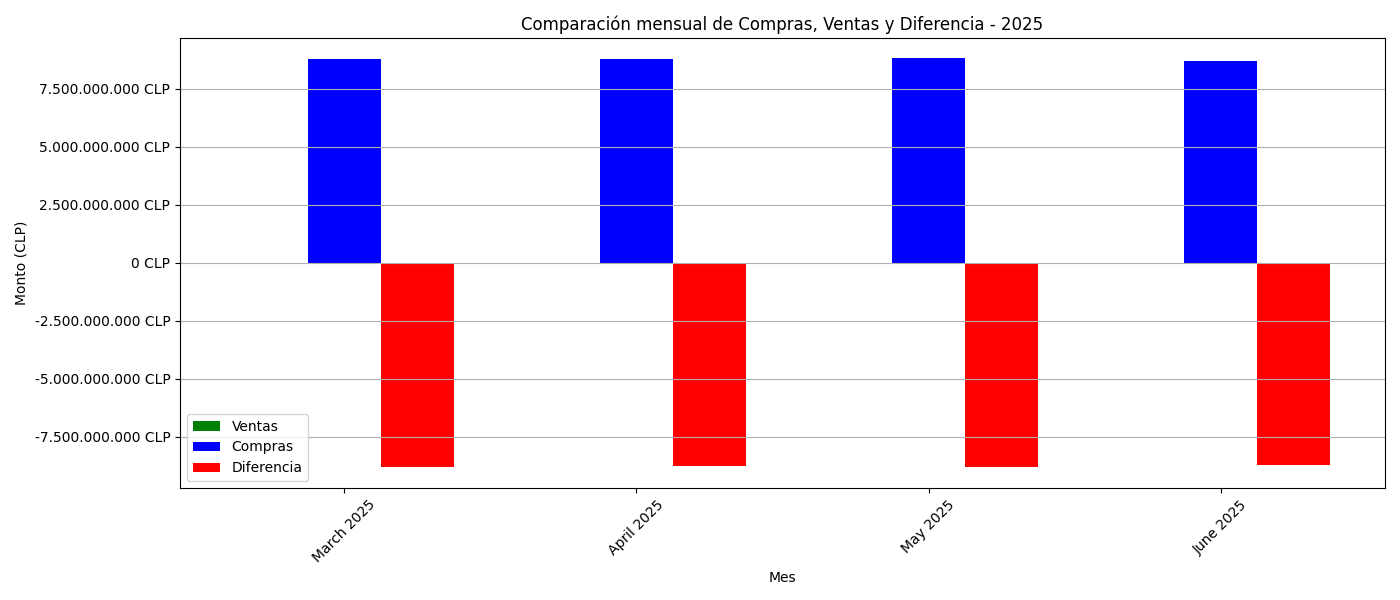
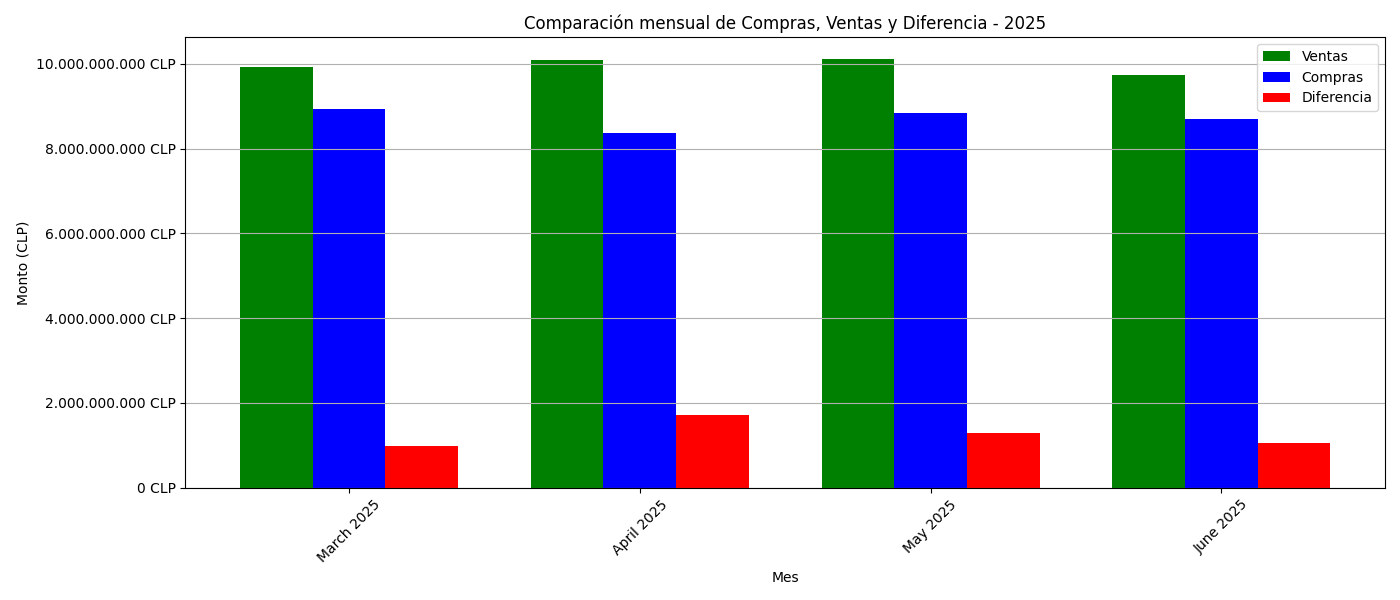
estasiquesi

diff --git a/consultas.py b/consultas.py
@@ -13,7 +13,7 @@ import matplotlib.ticker as mtick
 def conectar():
     return psycopg2.connect(
         host="localhost",
-        password="5540",
+        password="minecraft",
         port="5432",
         database="postgres",
         user="postgres"
@@ -224,19 +224,37 @@ def modelo_mas_vendido_por_region(conn, anio):
         print("\nNo se encontraron resultados para ese año en modelo más vendido por región.")
         return []
 
-    # Ajustar nombres largos con saltos de línea
-    def wrap_label(label, width=15):
-        return "\n".join(textwrap.wrap(label, width))
+    # Ajustar nombres largos con saltos de línea y abreviaturas
+    def abreviar_region(nombre):
+        abreviaturas = {
+            'Región de Arica y Parinacota': 'Arica y Parinacota',
+            'Región de Tarapacá': 'Tarapacá',
+            'Región de Antofagasta': 'Antofagasta',
+            'Región de Atacama': 'Atacama',
+            'Región de Coquimbo': 'Coquimbo',
+            'Región de Valparaíso': 'Valparaíso',
+            'Región Metropolitana de Santiago': 'RM',
+            'Región del Libertador General Bernardo O’Higgins': 'O’Higgins',
+            'Región del Maule': 'Maule',
+            'Región de Ñuble': 'Ñuble',
+            'Región del Biobío': 'Biobío',
+            'Región de La Araucanía': 'Araucanía',
+            'Región de Los Ríos': 'Los Ríos',
+            'Región de Los Lagos': 'Los Lagos',
+            'Región de Aysén del Gral. Carlos Ibáñez del Campo': 'Aysén',
+            'Región de Magallanes y de la Antártica Chilena': 'Magallanes'
+        }
+        return abreviaturas.get(nombre, nombre)
 
-    regiones = [wrap_label(fila[0]) for fila in resultados]
+    regiones = [abreviar_region(fila[0]) for fila in resultados]
     modelos = [fila[1] for fila in resultados]
     cantidades = [fila[2] for fila in resultados]
     etiquetas = [f"{modelo} ({cant} ventas)" for modelo, cant in zip(modelos, cantidades)]
 
     # Gráfico
-    plt.figure(figsize=(12, 6))
+    plt.figure(figsize=(max(12, len(regiones)*0.9), 6))
     barras = plt.bar(regiones, cantidades, color='mediumseagreen')
-    plt.xticks(rotation=0, fontsize=9)
+    plt.xticks(rotation=30, fontsize=9, ha='right')
     plt.ylabel('Unidades vendidas')
     plt.title(f'Modelo más vendido por Región - {anio}')
 
@@ -249,8 +267,7 @@ def modelo_mas_vendido_por_region(conn, anio):
                  altura + 0.1,
                  etiqueta,
                  ha='center', va='bottom',
-                 fontsize=8, rotation=0,
-                 wrap=True)
+                 fontsize=8, rotation=0)
 
     plt.tight_layout()
     # Crear carpeta si no existe
@@ -294,22 +311,40 @@ def comparacion_compras_vs_ventas_por_region(conn, anio):
         resultados = cursor.fetchall()
 
     if resultados:
-        # Función para envolver texto largo
-        def wrap_label(label, width=15):
-            return "\n".join(textwrap.wrap(label, width))
+        # Abreviar nombres de regiones
+        def abreviar_region(nombre):
+            abreviaturas = {
+                'Región de Arica y Parinacota': 'Arica y Parinacota',
+                'Región de Tarapacá': 'Tarapacá',
+                'Región de Antofagasta': 'Antofagasta',
+                'Región de Atacama': 'Atacama',
+                'Región de Coquimbo': 'Coquimbo',
+                'Región de Valparaíso': 'Valparaíso',
+                'Región Metropolitana de Santiago': 'RM',
+                'Región del Libertador General Bernardo O’Higgins': 'O’Higgins',
+                'Región del Maule': 'Maule',
+                'Región de Ñuble': 'Ñuble',
+                'Región del Biobío': 'Biobío',
+                'Región de La Araucanía': 'Araucanía',
+                'Región de Los Ríos': 'Los Ríos',
+                'Región de Los Lagos': 'Los Lagos',
+                'Región de Aysén del Gral. Carlos Ibáñez del Campo': 'Aysén',
+                'Región de Magallanes y de la Antártica Chilena': 'Magallanes'
+            }
+            return abreviaturas.get(nombre, nombre)
 
-        regiones = [wrap_label(r[0]) for r in resultados]
+        regiones = [abreviar_region(r[0]) for r in resultados]
         vendidos = [r[1] for r in resultados]
         comprados = [r[2] for r in resultados]
 
         x = range(len(regiones))
         width = 0.35
 
-        plt.figure(figsize=(12, 6))
+        plt.figure(figsize=(max(12, len(regiones)*0.9), 6))
         plt.bar([i - width/2 for i in x], vendidos, width=width, label='Vendidos', color='steelblue')
         plt.bar([i + width/2 for i in x], comprados, width=width, label='Comprados', color='darkorange')
 
-        plt.xticks(x, regiones, rotation=0, fontsize=9)
+        plt.xticks(x, regiones, rotation=30, fontsize=9, ha='right')
         plt.title(f'Comparación de autos comprados vs vendidos por región - {anio}')
         plt.xlabel('Región')
         plt.ylabel('Cantidad')
@@ -345,7 +380,7 @@ def promedio_precio_venta_por_marca(conn, anio):
         cursor.execute(query, (anio,))
         resultados = cursor.fetchall()
 
-    # Mostrar resultados en consola con formato
+    # Mostrar resultados en consola with format
     for marca, promedio in resultados:
         print(f"{marca}: ${promedio:,.0f} CLP")
 

diff --git a/BD_por_consola/extract.py b/BD_por_consola/extract.py
@@ -189,9 +189,9 @@ def extract_hechos_ventas():
     cur.execute("""
         SELECT 
             v.id_venta, 
-            comp.concesionaria AS id_concesionaria,
-            comp.id_usuario,
-            comp.id_auto,
+            v.id_concesionaria,
+            v.id_usuario,
+            v.id_auto,
             v.monto,
             v.fecha_venta,
             a.modelo AS id_modelo,
@@ -199,9 +199,8 @@ def extract_hechos_ventas():
             r.id_region,
             ci.id_comuna
         FROM transaccional.ventas v
-        LEFT JOIN transaccional.compras comp ON v.id_venta = comp.id_compras
-        LEFT JOIN transaccional.autos a ON comp.id_auto = a.patente
-        LEFT JOIN transaccional.concesionarias c ON comp.concesionaria = c.id_concesionarias
+        LEFT JOIN transaccional.autos a ON v.id_auto = a.patente
+        LEFT JOIN transaccional.concesionarias c ON v.id_concesionaria = c.id_concesionarias
         LEFT JOIN transaccional.ciudad cd ON c.id_ciudad_concesionaria = cd.id_ciudad
         LEFT JOIN transaccional.comuna ci ON cd.id_comuna_perteneciente = ci.id_comuna
         LEFT JOIN transaccional.region r ON ci.id_region_perteneciente = r.id_region

diff --git a/BD_por_consola/load.py b/BD_por_consola/load.py
@@ -111,11 +111,20 @@ def load_hechos_ventas(data):
     for row in data:
         query = """
             INSERT INTO analisis.hechos_ventas
-            (id_venta, id_concesionaria, id_comuna)
-            VALUES (%s, %s, %s)
+            (id_venta, id_concesionaria, id_usuario, id_auto, monto, fecha_venta, id_modelo, id_ciudad, id_region, id_comuna)
+            VALUES (%s, %s, %s, %s, %s, %s, %s, %s, %s, %s)
             ON CONFLICT (id_venta) DO NOTHING
         """
         params = (
-            row["id_venta"], row["id_concesionaria"], row["id_comuna"]
+            row["id_venta"],
+            row["id_concesionaria"],
+            row["id_usuario"],
+            row["id_auto"],
+            row["monto"],
+            row["fecha_venta"],
+            row["id_modelo"],
+            row["id_ciudad"],
+            row["id_region"],
+            row["id_comuna"]
         )
         execute_query(query, params)

diff --git a/BD_por_consola/etl.py b/BD_por_consola/etl.py
@@ -1,6 +1,21 @@
 def run_etl():
     print("Iniciando proceso ETL...")
 
+    # Limpiar tablas de hechos antes de cargar
+    import psycopg2
+    from config import DB_CONFIG
+    try:
+        conn = psycopg2.connect(**DB_CONFIG)
+        cur = conn.cursor()
+        cur.execute("TRUNCATE TABLE analisis.hechos_ventas RESTART IDENTITY CASCADE;")
+        cur.execute("TRUNCATE TABLE analisis.\"Hechos_compras\" RESTART IDENTITY CASCADE;")
+        conn.commit()
+        cur.close()
+        conn.close()
+        print("Tablas de hechos truncadas correctamente.")
+    except Exception as e:
+        print("Error al truncar tablas de hechos:", e)
+
     from extract import (
         extract_modelos, extract_autos, extract_concesionarias, extract_usuarios,
         extract_region, extract_comunas, extract_ciudades,
